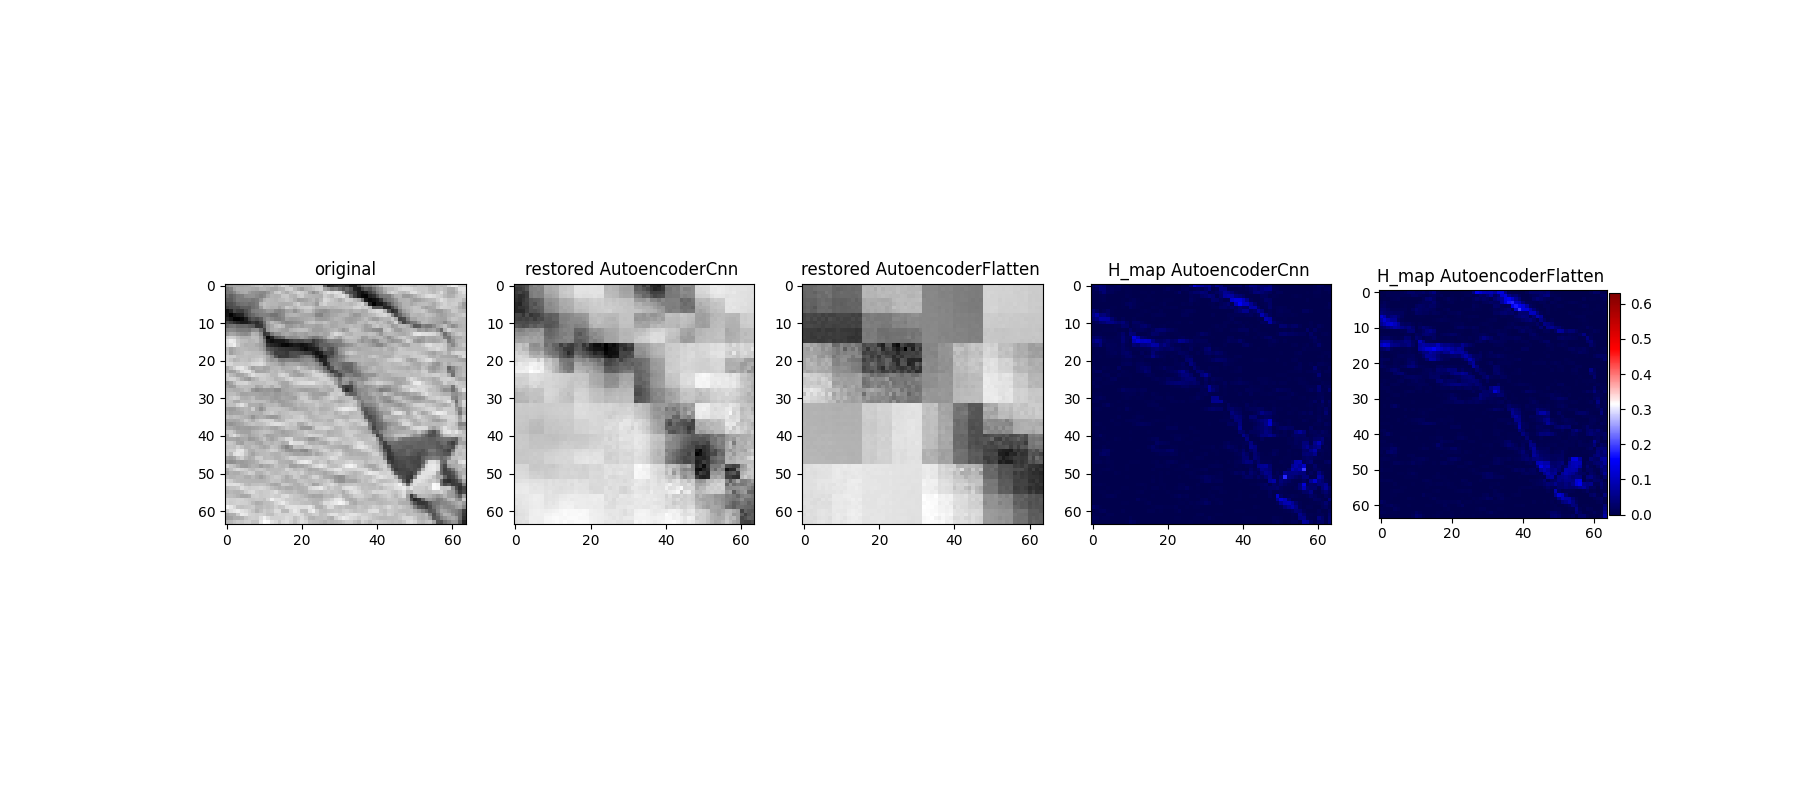
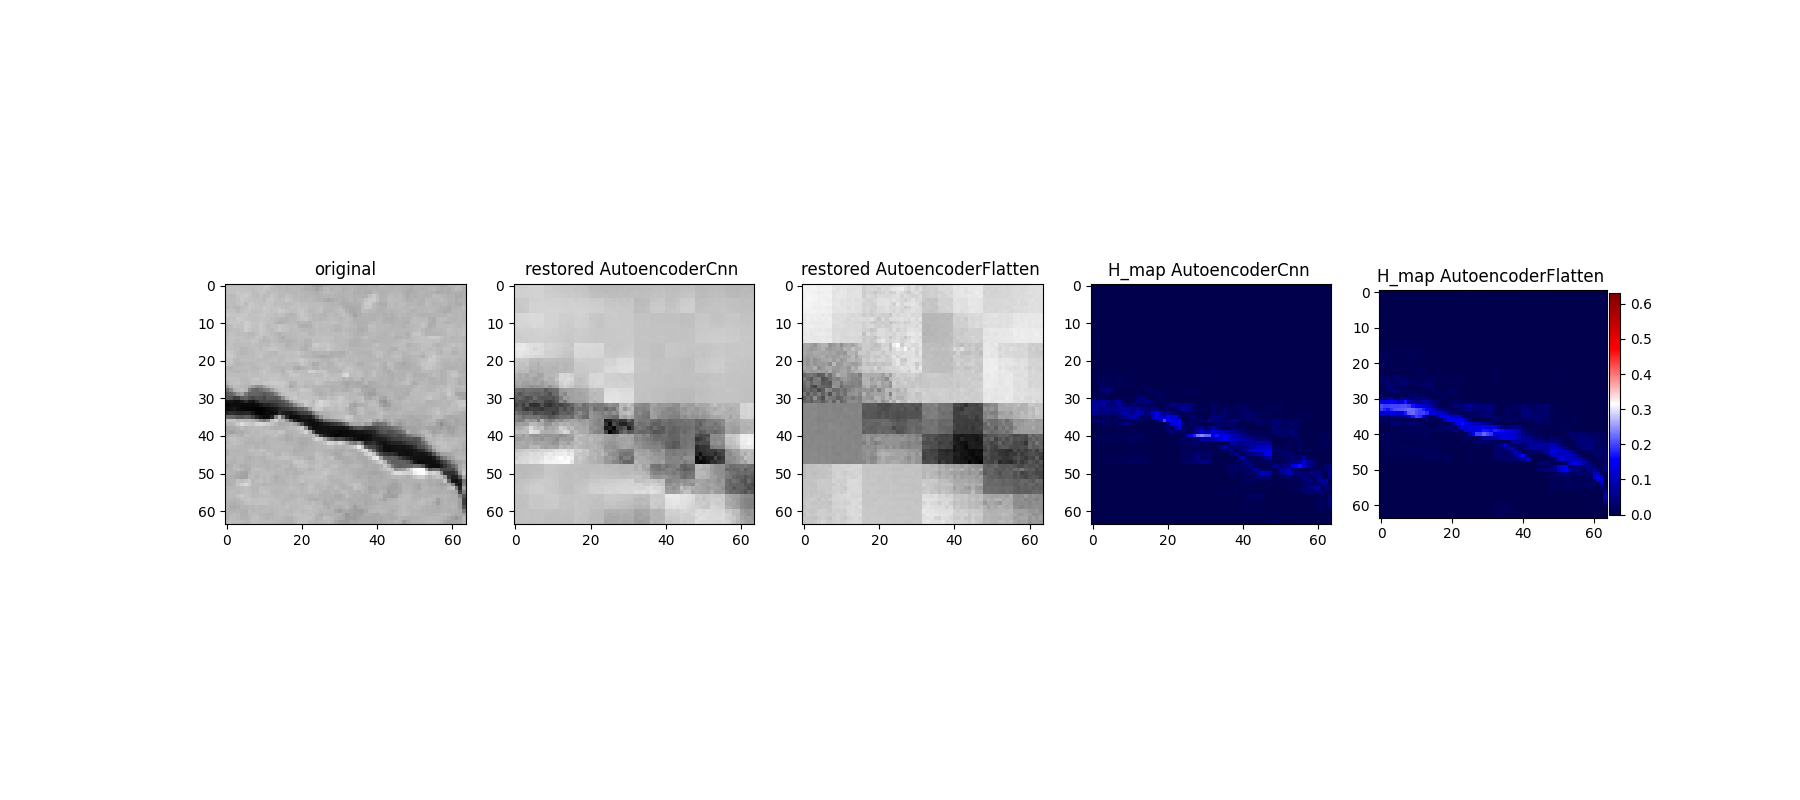
showed wrong predicted imgs

diff --git a/main.py b/main.py
@@ -8,7 +8,7 @@ from torch.utils.data import DataLoader, Subset, random_split, ConcatDataset
 from torch.optim import lr_scheduler
 from os.path import exists
 from sklearn.metrics import accuracy_score, recall_score
-
+from PIL import Image
 import numpy as np
 import matplotlib.pyplot as plt
 import seaborn as sns
@@ -418,6 +418,50 @@ def heat_map(images_number, max_loss_flat, max_loss_cnn, model_1, model_2):
         plt.close()
 
 
+def wrong_predicted_img(miss_classified, max_loss, model):
+
+    transform = transforms.Compose([
+                                        transforms.Resize(64),
+                                        transforms.ToTensor()
+                                        ])
+
+    for i, img_path in enumerate(miss_classified):
+        image = Image.open(img_path)
+        img = transform(image)
+        img = np.expand_dims(img, axis=0)
+        img = torch.Tensor(img)
+        loss_func = nn.MSELoss()
+        heat_map_loss = nn.MSELoss(reduction='none')
+        model.eval()
+        img_cuda = img.cuda()
+        with torch.no_grad():
+            out_data = model(img_cuda)
+            avg_loss = loss_func(out_data, img_cuda).item()
+            pixels_loss = heat_map_loss(out_data, img_cuda)
+
+        img = img.numpy()
+
+        out_cpu = out_data.cpu().numpy().transpose((0, 2, 3, 1))
+        pixels_loss = pixels_loss[0].cpu().numpy().transpose((1, 2, 0))
+
+
+
+        img  = img[0]*1.0/img.max()
+        plt.ioff()
+        fig, axs = plt.subplots(1,3, figsize=(15,6))
+        axs[0].imshow(img.transpose((1,2,0)), cmap='gray')
+        axs[0].set_title('original')
+
+        axs[1].imshow(out_cpu[0], cmap='gray')
+        axs[1].set_title(f'restored ')
+
+        plot_heat_1 = axs[2].imshow(pixels_loss[:, :, 0], cmap='seismic',  vmin=0, vmax=max_loss)
+        axs[2].set_title(f'H_map  {avg_loss}')
+        fig.colorbar(plot_heat_1, ax=axs[2], fraction=0.046, pad=0.04)
+        plt.suptitle("Examples of misclassified images", fontsize=20)
+        plt.savefig(f'wrong_predicted_img/{model._get_name()}_{i}_heatmap.png')
+        plt.close()
+
 
 if __name__ == '__main__':
     #PATH = "Concrete Crack Images for Classification/"
@@ -474,4 +518,6 @@ if __name__ == '__main__':
     miss_classified_flat, max_pix_loss_flat = loss_distribution(AutoencoderTrainFlatten, threshold_flatten)
     heat_map(16, max_pix_loss_cnn, max_pix_loss_flat, AutoencoderTrainCnn, AutoencoderTrainFlatten)
 
+    wrong_predicted_img(miss_classified_cnn[:8], max_pix_loss_cnn,  AutoencoderTrainCnn)
+    wrong_predicted_img(miss_classified_flat[:8], max_pix_loss_flat, AutoencoderTrainFlatten)
     print('end')
